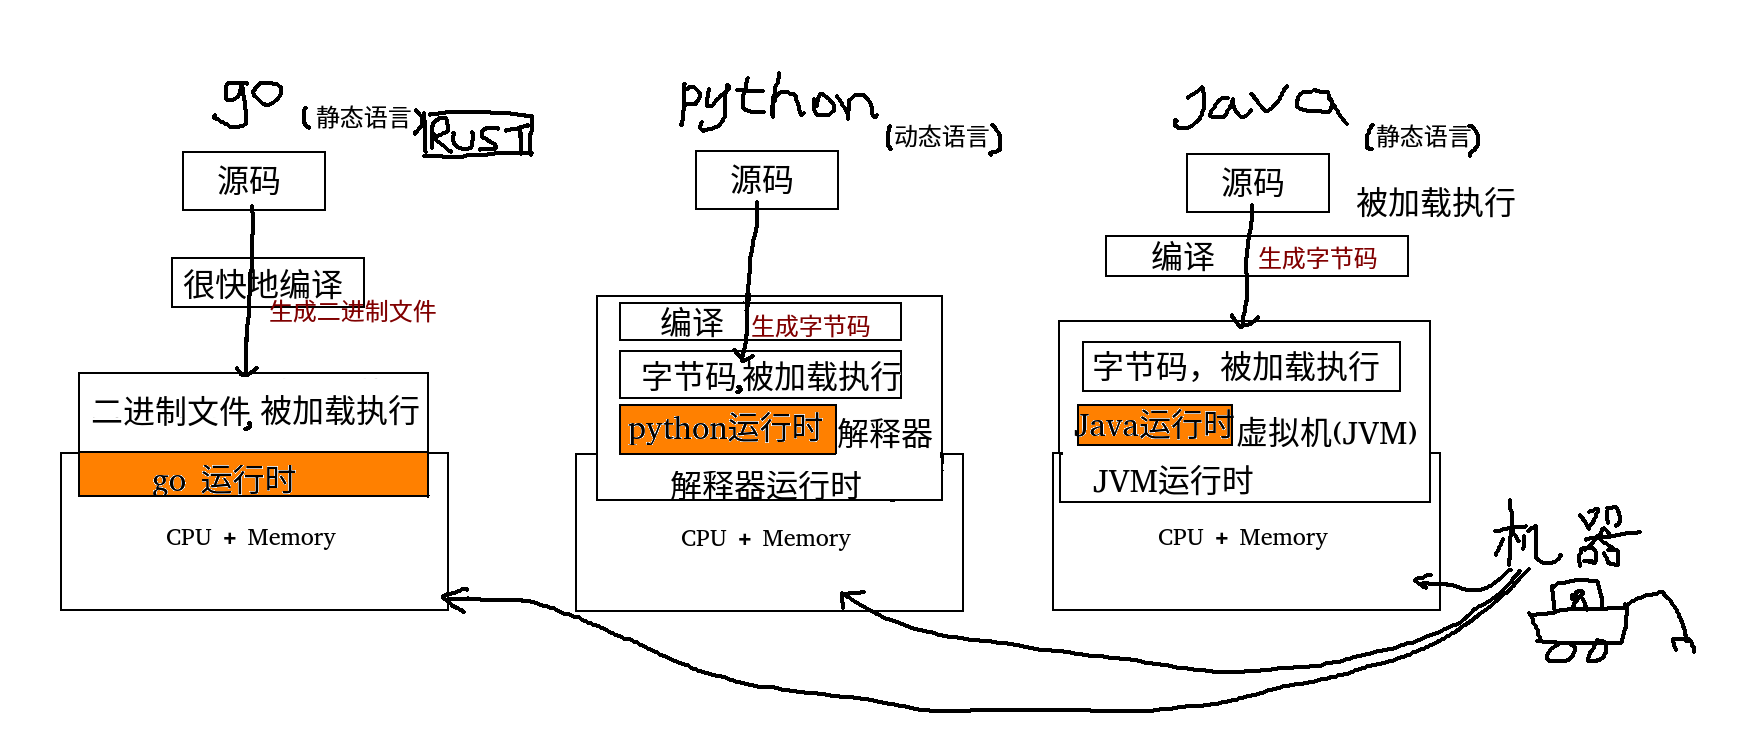
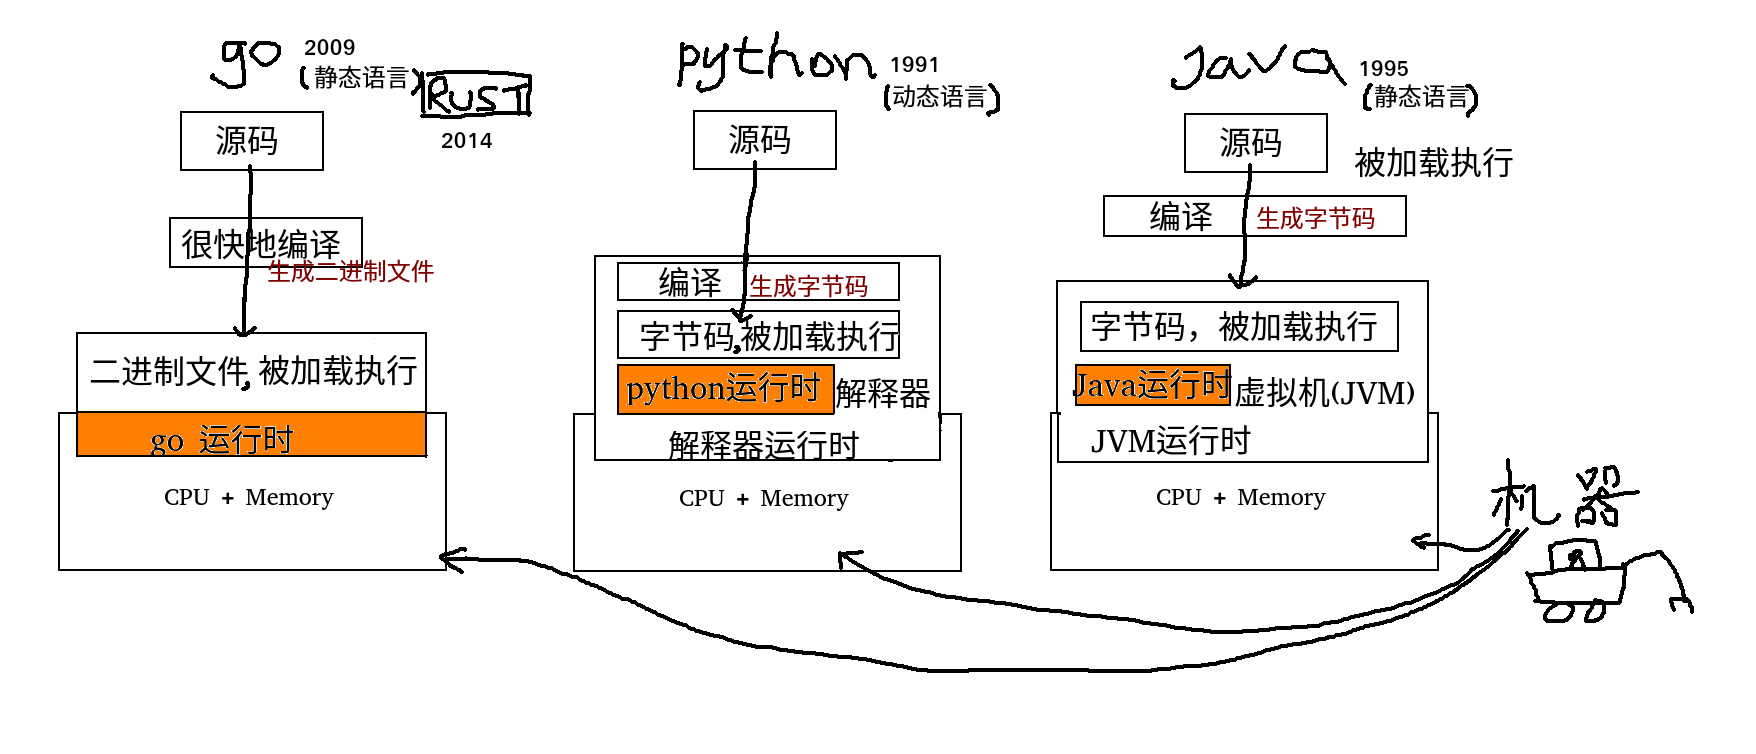
update why python and go

diff --git a/backend/004_why_python_and_go.md b/backend/004_why_python_and_go.md
@@ -2,9 +2,39 @@
 
 ## 为什么是 python 和 go 这两门语言
 
-作为一个系列课程，可能有必要详尽说明一下，为什么选择的是 python 和 go 这两门语言；有的同学可能更希望选定的是 Java、Rust、C/C++ 这些语言。
+作为一个系列课程，可能有必要详尽地说明一下，为什么选择的是 python 和 go 这两门语言；有的同学可能更希望选定的是 Java、Rust、C/C++ 等其他语言。
 
-在前面的课程里有提到过， python 是我目前工作的主要变成语言， go 是我曾经主力使用且一直跟踪发展的编程语言。站在一个老程序员的视角，**不存在最好的语言，只存在最适合的语言**。作为一名中高级的开发者，大家会发现自己平日里的工作所解决的困难都是业务相关的复杂度，编程语言的迁移（假如真的存在这种情况）反而是比较容易的。
+在前面的课程里有提到过， python 是我目前工作的主要编程语言， go 是我曾经主力使用且一直跟踪其发展的编程语言。而且站在一个稍微有点经验的程序员的视角，**不存在最好的语言，只存在最适合的语言**。作为一名中高级的开发者，大家会发现自己平日里的工作所解决的困难都是业务相关的复杂度，编程语言的迁移（假如真的存在这种情况）相对反而会是比较容易的，只要团队里有比较靠谱的人带队，从入门到有产出花不了太多时间。
+
+不过，根据 [TIOBE](https://www.tiobe.com) 指数 Java 依然是最流行的工业级编程语言，其热度长期占据排行榜首位，大家可以自行斟酌吧。
+
+## 简单对比go/python/java的模型
+
+在正式开始 python 和 go 的学习之前，让我们首先简单地比较一下几种编程语言的模型，这里我选择了比较有代表性的 go、python 和 java。
+
+![几种编程语言的模型](./imgs/004_why_python_and_go.png "几种编程语言的模型")
+
+我们看一下各个编程语言“从源码到机器执行”所经历的环节。大家都是从源码开始，最终都是电脑的 CPU 和 内存来承载执行源码对应的逻辑。
+
+首先我先给大家注点鸡血，程序员写代码控制的主要是 CPU 和 内存，它们属于机器的一种；挖掘机或其他的车也是机器的一种，如果我们能够合理地摆弄那几个操纵杆学会开车，那么没有理由学不会开电脑。唯手熟尔，仅此而已。
+
+### go语言
+好，接下来让我们首先看一下 go 语言。go 诞生自 2009 年，和 python（1991）、Java（1995）比起来算是一门比较新的语言，理论上具有后发优势，语言特性会比较先进。这也是建议大家学习它的一个原因。
+
+和 c 语言类似，go 语言经过编译后会生成可以直接执行的二进制文件。图中使用“很快地编译“，是因为 go 语言编译起来确实非常快；我们可以拿另一个比较新且流行的编程语言 Rust 简单对比，前者的编译速度比后者可以快一个数量级。举个例子，如果 Rust 项目编译使用 30 分钟（TiKV 项目），那么 go 语言复杂度相当的项目（TiDB）可能不需三分钟就构建完成了。
+
+go 编译生成的二进制文件可以直接被加载到机器上运行，干脆利落。也就是说，go 编译生成的二进制文件直接是机器可识别的内容。这与 python 和 java 是完全不同的。
+
+
+### java 语言
+
+
+### python 语言
+
+使用 python 开发，从源码到机器执行并没有显式地编译过程，只需把源码加载到解释器就可以正常运行了。
+
+那么 python 源码是如何运行在**机器**上的呢？根据常识，类似 `1+1` 这样的源码是不可能直接在 CPU 上执行的，实际上 python 解释器会在内部把 python 源码编译形成一种字节码，然后把这些字节码加载到解释器的运行时进行执行。
+
 
 
 
